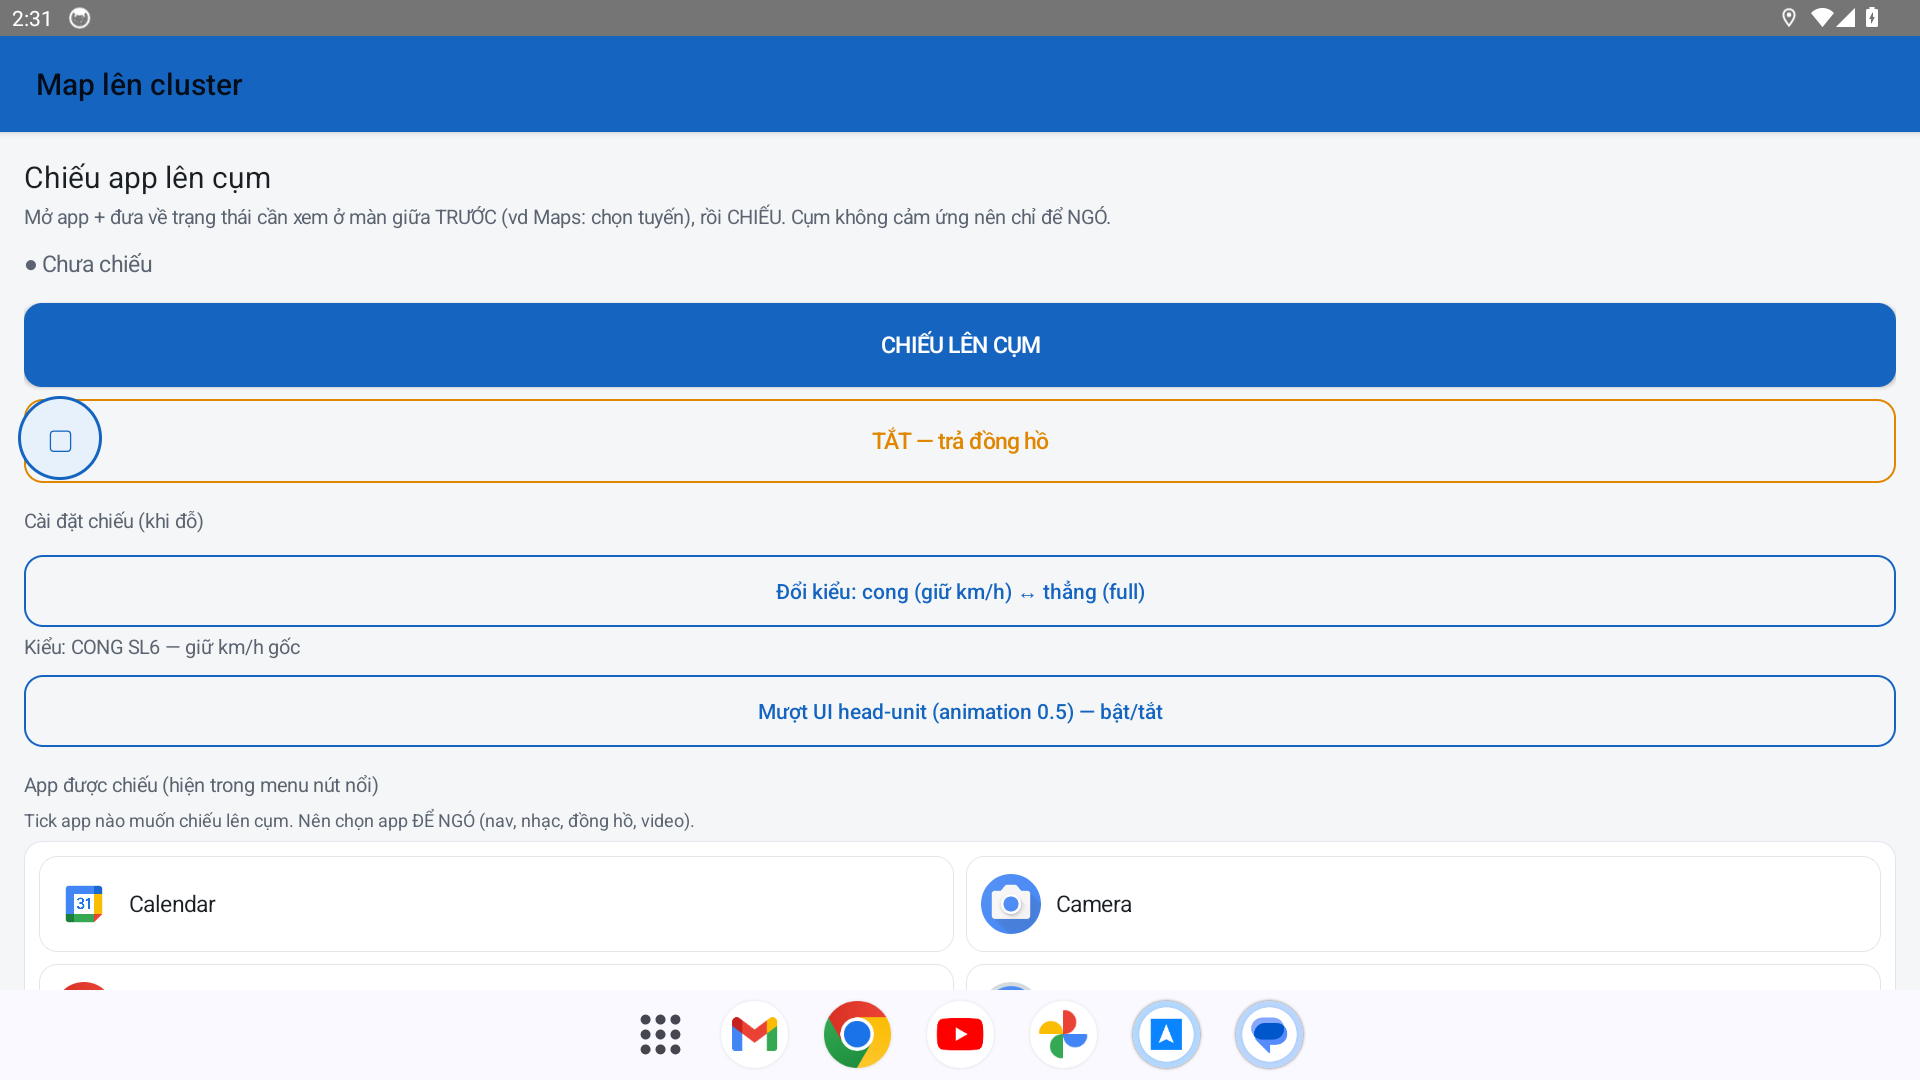
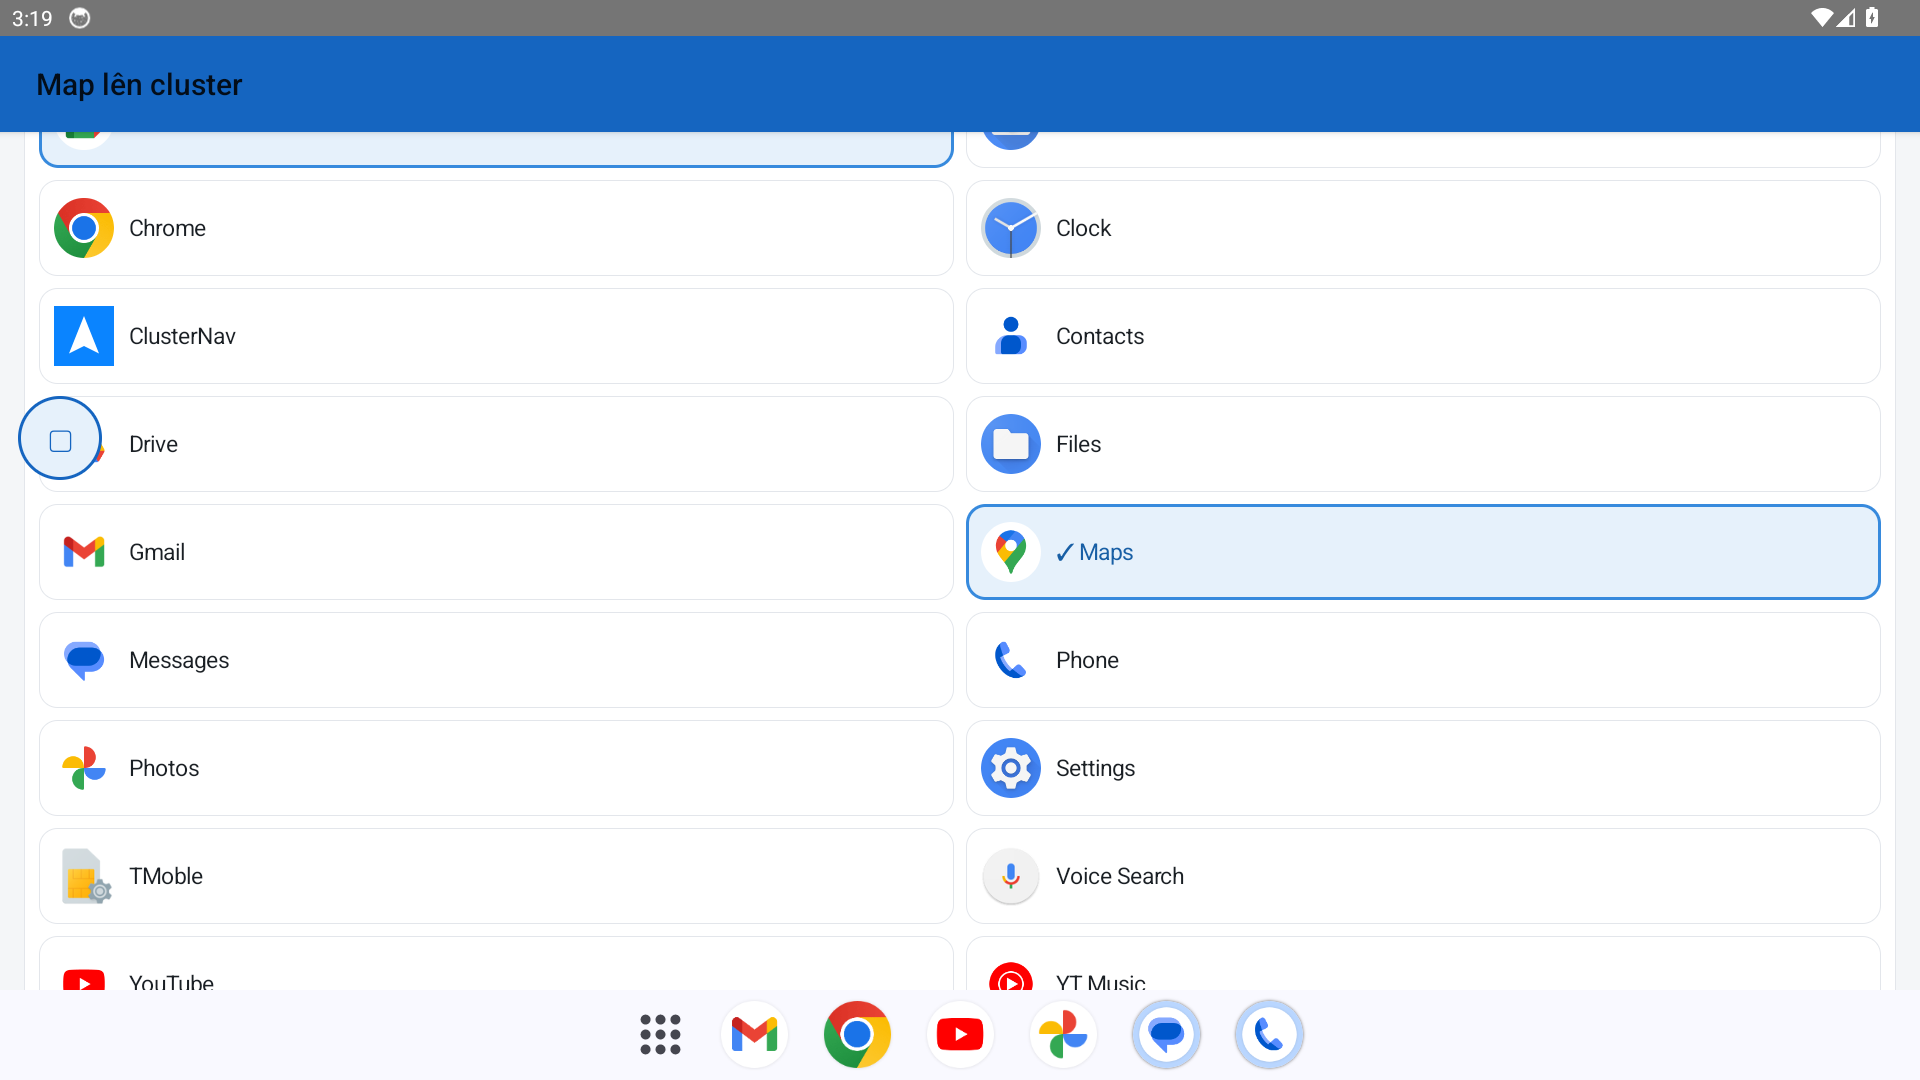
docs: sửa ảnh chọn app (lưới có tick) + bubble (nút nổi thật trên màn)
Ảnh cũ chưa đúng: 'chọn app' giờ là lưới app có ✓ tick; 'bubble' giờ là
nút nổi ▢ thật lơ lửng trên màn (chụp emulator over launcher).

diff --git a/docs/HUONG-DAN.md b/docs/HUONG-DAN.md
@@ -56,7 +56,7 @@ Mở **Cài đặt chiếu** → kéo xuống phần **"App được chiếu"** 
 ### 4.3. Nút nổi (bubble) — chiếu nhanh, không cần mở app
 Bật bằng nút **"Hiện nút nổi"** ở màn chính (cần quyền **Hiển thị trên ứng dụng khác**). Nút lơ lửng trên mọi màn:
 
-![Bật nút nổi](images/nut-noi.png)
+![Nút nổi (bubble) ▢ lơ lửng trên màn hình](images/nut-noi.png)
 
 - **Chạm** = bật/tắt chiếu app gần nhất. Biểu tượng đổi theo trạng thái: **▢** = chưa chiếu · **▣** = đang chiếu.
 - **Giữ (long-press)** = hiện **menu các app đã tick** → chọn 1 app để chiếu (tiện khi đang lái, khỏi mở app to).
